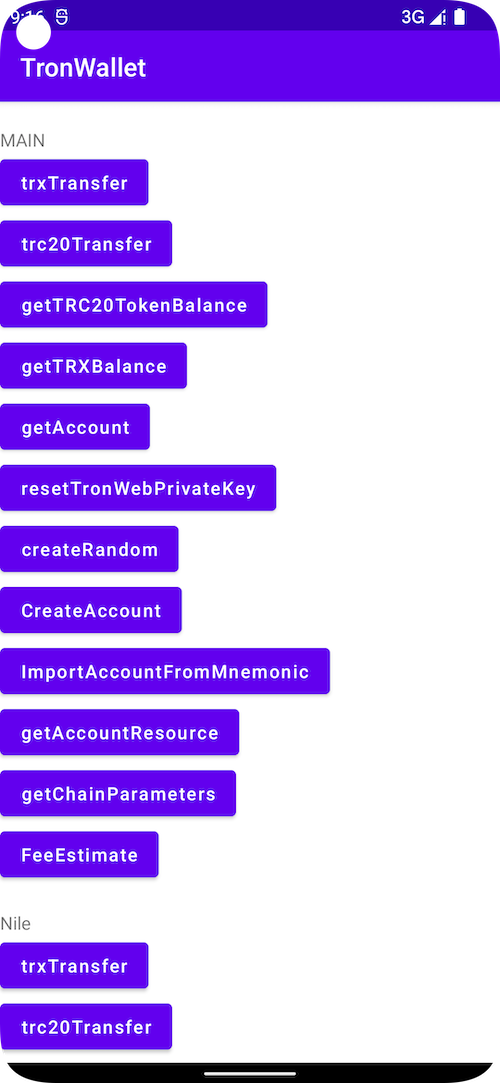
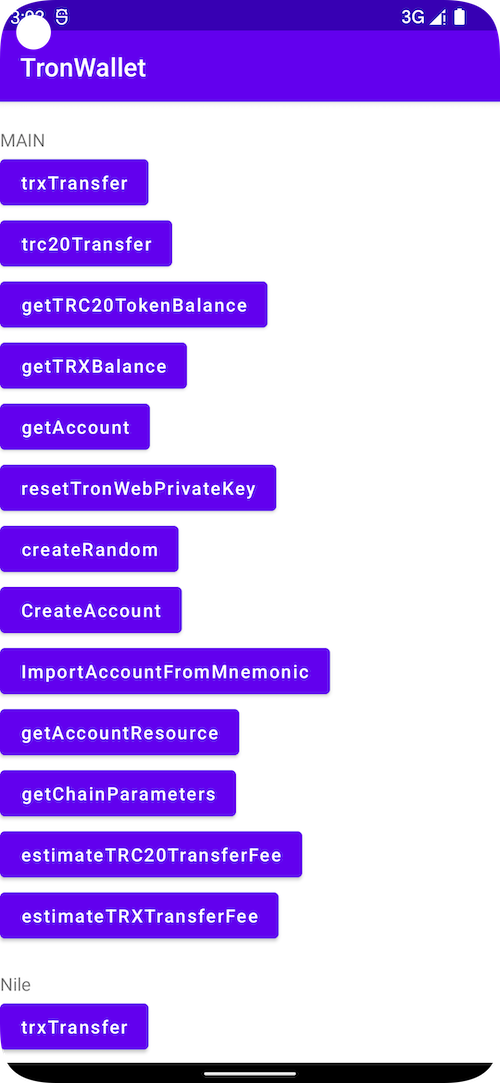
edit readme

Changed region(s): [[0.0, 0.7618, 0.63, 0.9751], [0.03, 0.0, 0.09, 0.0305]]

diff --git a/README.md b/README.md
@@ -17,7 +17,7 @@ repositories {
     maven { url 'https://jitpack.io' }
 }
 dependencies {
-    implementation 'com.github.james19870606:TronWallet:1.0.9'
+    implementation 'com.github.james19870606:TronWallet:1.1.0'
 }
 ```
 
@@ -127,7 +127,28 @@ tronweb?.trc20TokenTransfer(
     remark,
     onCompleted = onCompleted)
 ```
+##### Fee Estimate When Send TRX
+```Kotlin
+val toAddress = receiveEditText?.text.toString()
+val amount = amountEditText?.text.toString()
+val note = "Test data"
+val onCompleted = {state : Boolean, sendAccountResources:LinkedTreeMap<String, Any>,feeDic:LinkedTreeMap<String, Any>,error:String ->
+    this.runOnUiThread {
+        if (state){
+            val activationFee = feeDic["activationFee"] as Double
+            val noteFee = feeDic["noteFee"] as Double
+            val requiredBandwidth = feeDic["requiredBandwidth"] as Double
+            val totalFee = activationFee + noteFee + requiredBandwidth / 1000
+            hashValue?.text =
+                "Resource Consumed  ${requiredBandwidth.toInt()} Bandwidth  \nFee    $totalFee TRX"
 
+        } else {
+            hashValue?.text = error
+        }
+    }
+}
+tronweb?.estimateTRXTransferFee(toAddress, note, amount, onCompleted)
+```
 ##### Fee Estimate When Send TRC20
 ```Kotlin
 val onCompleted = {state : Boolean, energyUsed:Double,energyFee:Double,error:String ->
